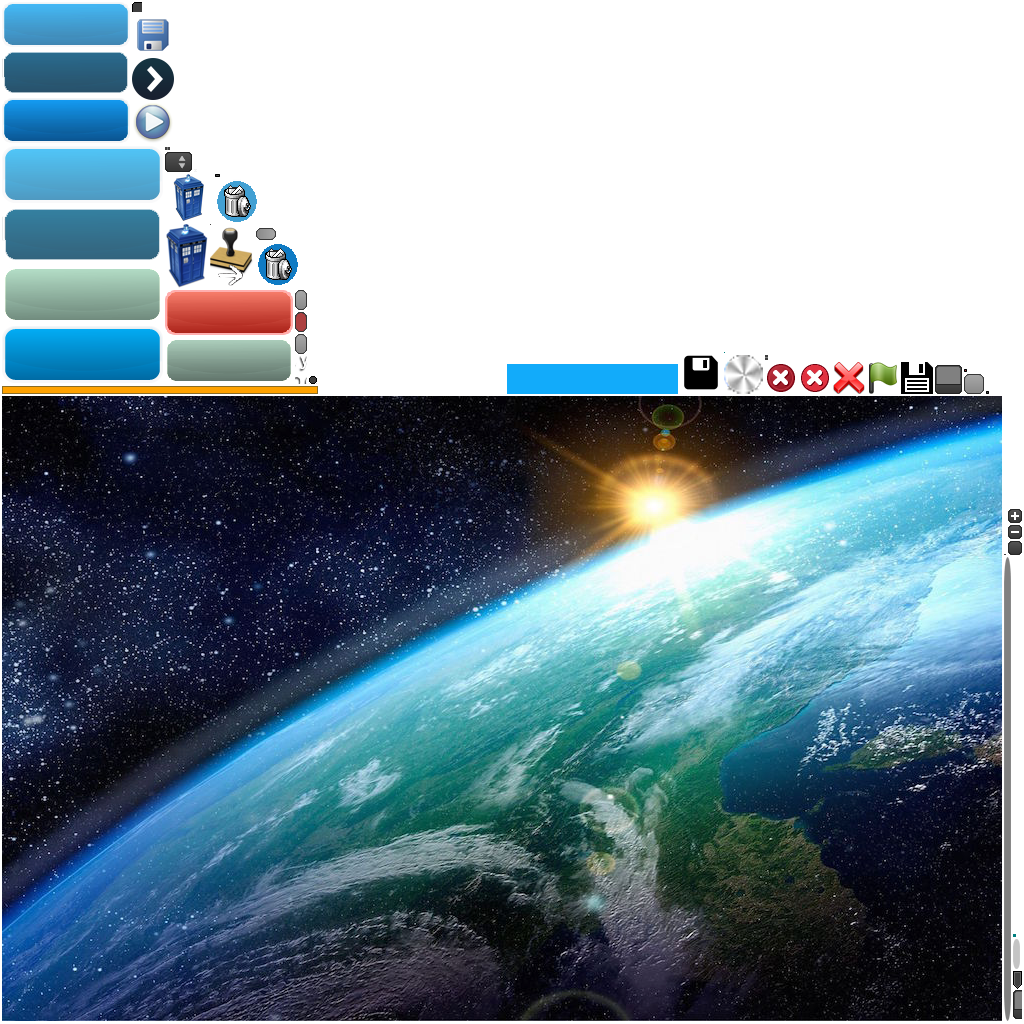
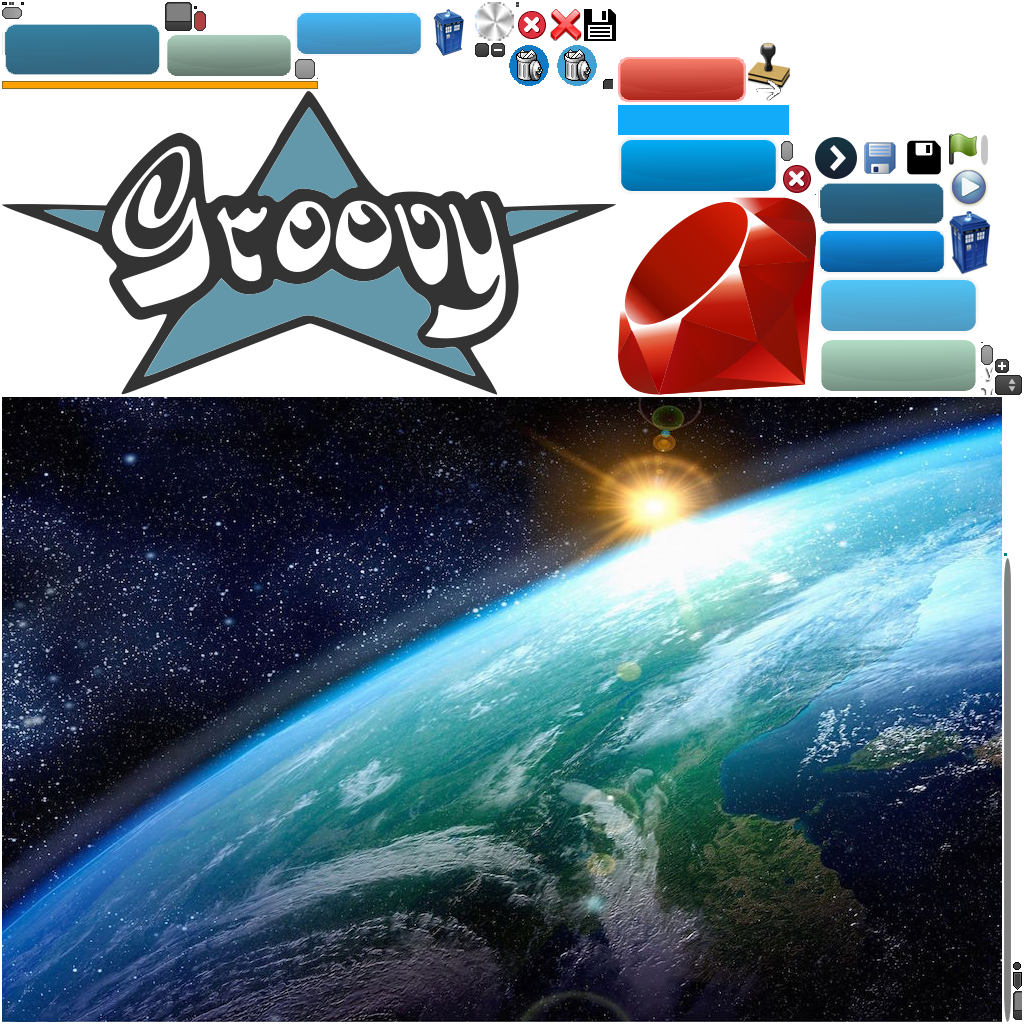
Ask for game language

diff --git a/core/src/com/bigcustard/planet/code/command/NewCommand.java b/core/src/com/bigcustard/planet/code/command/NewCommand.java
@@ -1,0 +1,52 @@
+package com.bigcustard.planet.code.command;
+
+import com.bigcustard.planet.code.Game;
+import com.bigcustard.planet.code.GameRenameException;
+import com.bigcustard.planet.code.Language;
+import com.bigcustard.scene2dplus.command.AbstractCommand;
+import com.bigcustard.util.FutureSupplier;
+import com.bigcustard.util.FutureSuppliers;
+
+import java.util.function.BiConsumer;
+import java.util.function.Consumer;
+
+public class NewCommand extends AbstractCommand {
+    private final FutureSupplier<Language> gameLanguageSupplier;
+    private final Consumer<Language> runIDE;
+
+    public NewCommand(FutureSupplier<Language> gameLanguageSupplier, Consumer<Language> runIDE) {
+        this.gameLanguageSupplier = gameLanguageSupplier;
+        this.runIDE = runIDE;
+    }
+
+    @Override
+    public void execute() {
+//        if (game.isNamed()) {
+//            exitProcess.run();
+//        } else {
+//            nameOrDeleteGame();
+//        }
+    }
+//
+//    private void nameOrDeleteGame() {
+//        FutureSuppliers.onGet(saveChoiceSupplier, (save) -> {
+//            if (save) {
+//                saveGame();
+//            } else {
+//                game.delete();
+//                exitProcess.run();
+//            }
+//        });
+//    }
+//
+//    private void saveGame() {
+//        FutureSuppliers.onGet(gameNameSupplier, (newName) -> {
+//            try {
+//                game.setName(newName);
+//                exitProcess.run();
+//            } catch (GameRenameException e) {
+//                errorReporter.accept(e, this::saveGame);
+//            }
+//        });
+//    }
+}

diff --git a/core/test/com/bigcustard/planet/code/command/NewCommandTest.java b/core/test/com/bigcustard/planet/code/command/NewCommandTest.java
@@ -1,0 +1,44 @@
+package com.bigcustard.planet.code.command;
+
+import com.badlogic.gdx.files.FileHandle;
+import com.bigcustard.planet.code.Game;
+import com.bigcustard.planet.code.Language;
+import com.bigcustard.planet.language.Syntax;
+import com.bigcustard.scene2dplus.image.ImageAreaModel;
+import com.bigcustard.scene2dplus.image.ImageModel;
+import com.bigcustard.util.FutureSupplier;
+import com.google.common.util.concurrent.Futures;
+import org.junit.Before;
+import org.junit.Test;
+import org.mockito.Mock;
+
+import java.util.Arrays;
+import java.util.function.Consumer;
+
+import static org.assertj.core.api.Assertions.assertThat;
+import static org.mockito.Mockito.*;
+import static org.mockito.MockitoAnnotations.initMocks;
+
+public class NewCommandTest {
+    private NewCommand command;
+    @Mock private Consumer<Language> runIDE;
+
+    @Before
+    public void before() {
+        initMocks(this);
+    }
+
+    @Test
+    public void executeWithLanguageChoice() {
+        command = spy(new NewCommand(() -> Futures.immediateFuture(Language.JRuby), runIDE));
+        command.execute();
+        verify(runIDE).accept(Language.JRuby);
+    }
+
+    @Test
+    public void executeWithCancel() {
+        command = spy(new NewCommand(() -> Futures.immediateFuture(null), runIDE));
+        command.execute();
+        verifyZeroInteractions(runIDE);
+    }
+}

diff --git a/core/src/com/bigcustard/planet/screen/WelcomeScreen.java b/core/src/com/bigcustard/planet/screen/WelcomeScreen.java
@@ -19,10 +19,12 @@ import com.badlogic.gdx.scenes.scene2d.utils.TextureRegionDrawable;
 import com.badlogic.gdx.utils.viewport.Viewport;
 import com.bigcustard.planet.code.Game;
 import com.bigcustard.planet.code.Language;
+import com.bigcustard.planet.code.command.NewCommand;
 import com.bigcustard.scene2dplus.actions.ChangePaddingAction;
 import com.bigcustard.scene2dplus.dialog.ErrorDialog;
 import com.google.common.util.concurrent.FutureCallback;
 import com.google.common.util.concurrent.Futures;
+import com.google.common.util.concurrent.ListenableFuture;
 
 import java.util.function.Consumer;
 import java.util.function.Supplier;
@@ -96,9 +98,16 @@ public class WelcomeScreen extends ScreenAdapter {
 		newGameButton.addListener(new ClickListener() {
 			@Override
 			public void clicked(InputEvent event, float x, float y) {
-				showCodingScreen(() -> Game.create(Language.Groovy));
+				NewCommand newCommand = new NewCommand(WelcomeScreen.this::saveGameChoice, (language) -> showCodingScreen(() -> Game.create(language)));
+				newCommand.execute();
 			}
 		});
+	}
+
+	private ListenableFuture<Language> saveGameChoice() {
+		LanguageChoiceDialog languageChoiceDialog = new LanguageChoiceDialog(skin);
+		languageChoiceDialog.show(stage);
+		return languageChoiceDialog.getFutureLanguageChoice();
 	}
 
 	private void createContinueGameButton() {

diff --git a/core/src/com/bigcustard/planet/screen/LanguageChoiceDialog.java b/core/src/com/bigcustard/planet/screen/LanguageChoiceDialog.java
@@ -1,0 +1,38 @@
+package com.bigcustard.planet.screen;
+
+import com.badlogic.gdx.scenes.scene2d.ui.Dialog;
+import com.badlogic.gdx.scenes.scene2d.ui.Skin;
+import com.badlogic.gdx.scenes.scene2d.ui.Table;
+import com.bigcustard.planet.code.Language;
+import com.google.common.util.concurrent.SettableFuture;
+
+public class LanguageChoiceDialog extends Dialog {
+    private SettableFuture<Language> futureLanguageChoice = SettableFuture.create();
+
+    public LanguageChoiceDialog(Skin skin) {
+        super("", skin);
+        layoutControls();
+    }
+
+    public SettableFuture<Language> getFutureLanguageChoice() {
+        return futureLanguageChoice;
+    }
+
+    @Override
+    protected void result(Object save) {
+        futureLanguageChoice.set((Language) save);
+    }
+
+    private void layoutControls() {
+        Table contentTable = getContentTable();
+        contentTable.padTop(20).padLeft(40).padRight(40);
+        text("Which Language?");
+        contentTable.row();
+        button("Ruby", Language.JRuby);
+        contentTable.row();
+        button("Groovy", Language.Groovy);
+        contentTable.row();
+        button("Cancel", null).padTop(40);
+        getButtonTable().pad(25);
+    }
+}

diff --git a/core/src/com/bigcustard/planet/screen/RunScreen.java b/core/src/com/bigcustard/planet/screen/RunScreen.java
@@ -40,8 +40,6 @@ public class RunScreen {
         String contentRoot = game.folder().path() + "/build";
         config.setContentRoot(contentRoot);
 
-        System.setProperty("org.jruby.embed.localvariable.behavior", "transient");
-
         blurpRuntime = BlurpRuntime.begin(config);
         blurpRuntime.start(game.language().scriptEngine(), game.code(), game.name().replace(" ", "_"));
         setScreen.accept(blurpRuntime.getScreen());

diff --git a/desktop/src/com/bigcustard/planet/desktop/Packer.java b/desktop/src/com/bigcustard/planet/desktop/Packer.java
@@ -1,0 +1,9 @@
+package com.bigcustard.planet.desktop;
+
+import com.badlogic.gdx.tools.texturepacker.TexturePacker;
+
+public class Packer {
+    public static void main(String[] args) {
+        TexturePacker.process("android/assets/images", "android/assets/theme", "uiskin");
+    }
+}
